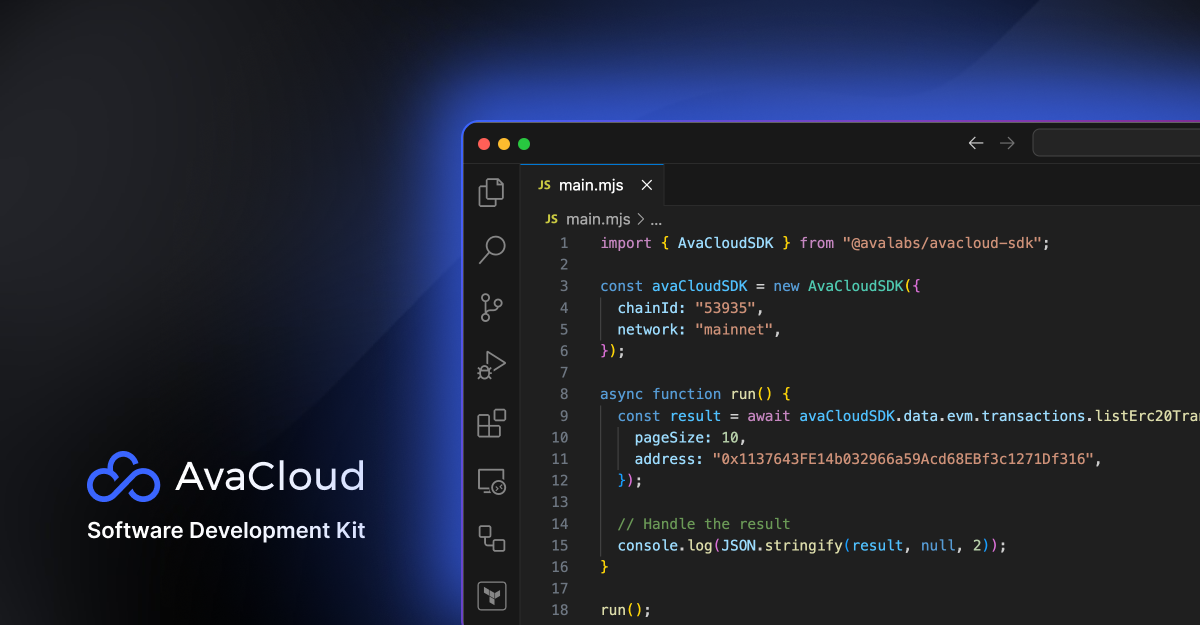
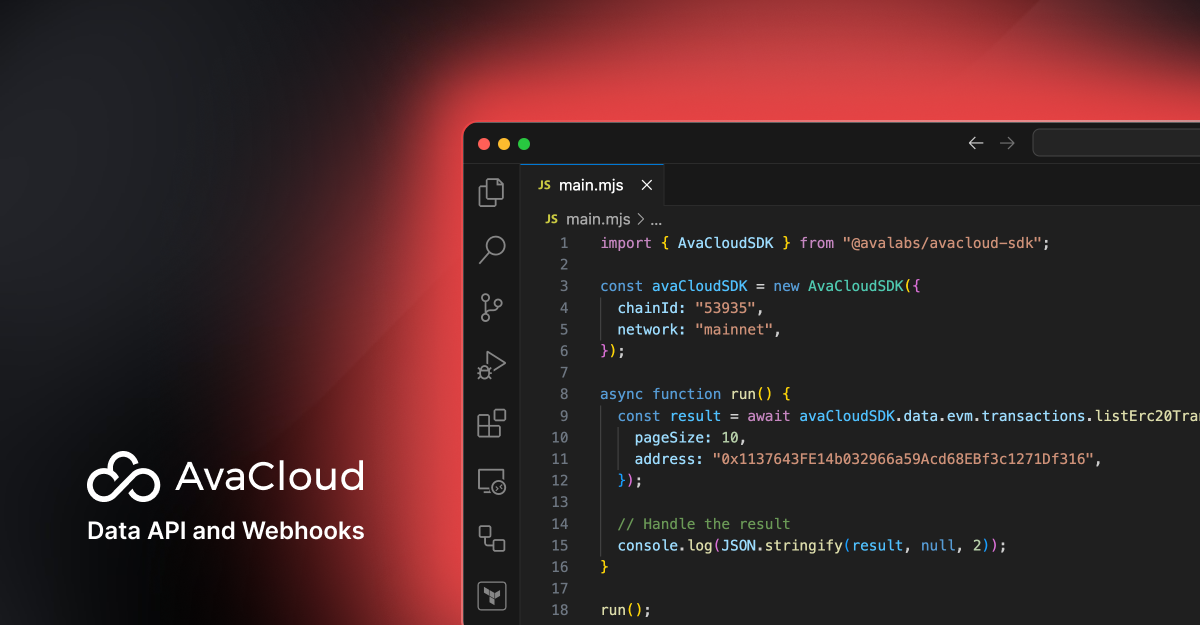
change image, move back to main course

Changed region(s): [[0.0617, 0.0, 1.0, 1.0]]

diff --git a/content/courses.tsx b/content/courses.tsx
@@ -98,7 +98,18 @@ const officialCourses: Course[] = [
         tools: ["Avalanche-CLI"],
         languages: ["Go"],
         instructors: ["Martin Eckardt", "Ash"] // + Usman
-     }
+     },
+     {
+        name:"Glacier Starter Kit",
+        description:"Learn how to leverage the AvaCloudSDK to build web apps on Avalanche",
+        slug:"glacier",
+        icon: <SquareCode />,
+        duration: "1 hour",
+        featured: true,
+        tools: ["AvaCloudSDK"],
+        languages: ["Typescript"],
+        instructors: ["Owen Wahlgren"]
+    }
 ];
 
 const ecosystemCourses: Course[] = [
@@ -120,17 +131,6 @@ const ecosystemCourses: Course[] = [
         tools: ["Avalanche-CLI"],
         languages: ["Go"]
    }*/
-    {
-        name:"Glacier Starter Kit",
-        description:"Learn how to leverage the AvaCloudSDK to build web apps on Avalanche",
-        slug:"glacier",
-        icon: <SquareCode />,
-        duration: "1 hour",
-        featured: true,
-        tools: ["AvaCloudSDK"],
-        languages: ["Typescript"],
-        instructors: ["Owen Wahlgren"]
-    }
 ];
 
 export default {
